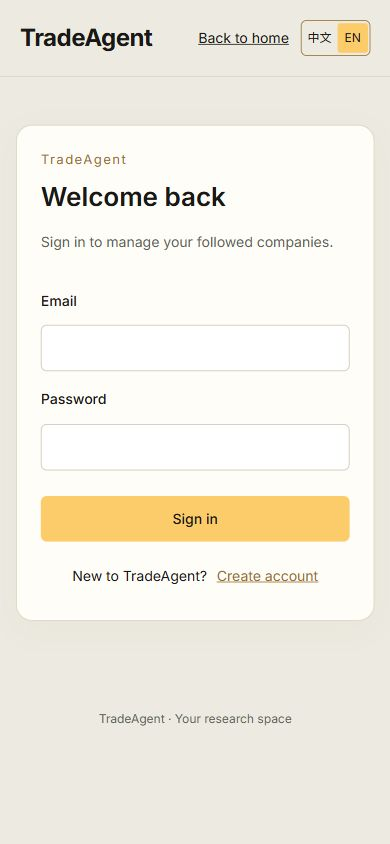
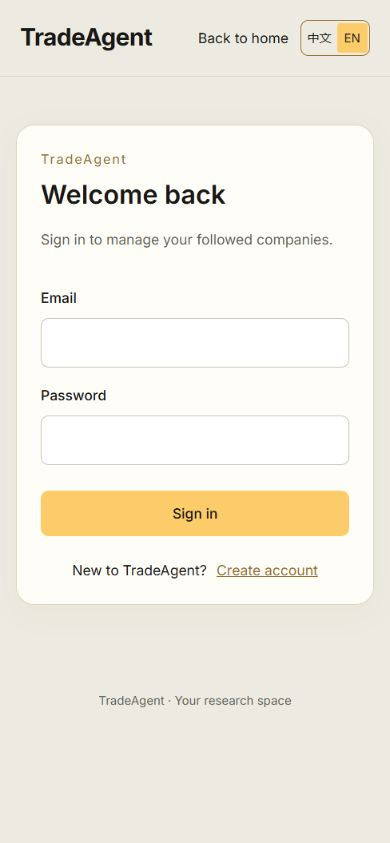
docs: 记录PostgreSQL账户验收与审查闭环

diff --git a/docs/07_前端与部署/LOCAL_ACCOUNT_VALIDATION_20261006.md b/docs/07_前端与部署/LOCAL_ACCOUNT_VALIDATION_20261006.md
@@ -1,0 +1,42 @@
+# 本地账户开发验收（2026-10-06）
+
+后端功能提交：`8b590f7d6120f5dd1fc4429a52baf1b1e9a78972`；前端最终代码：`d50728e01b0ff1c208bbe4bbb5f9f934fe113def`。当前前端在 `D:/桌面/ai-website-cloner-template`，后端在本仓库。
+
+## 自动检查
+
+- 后端 Ruff 全仓通过，Mypy 103 文件通过；完整 Pytest：445 passed、1 skipped，覆盖率89.92%。跳过的是已有、需要外部条件的live gate测试，没有调用付费模型。
+- 前端 `npm.cmd run check`：ESLint、TypeScript、Next生产构建通过。路由包含 `/login`、`/register`、`/app`、`/api/backend/[...path]`。
+- 前端9项Node测试通过：两种本地Origin、非法Origin、内部研究路径拒绝、后端不可用、cookie转发、请求大小、云Origin和原有双语回归。
+- 页面转换脚本在换行归一后重复执行，16个组件文件哈希保持不变；账户入口、账户CTA与中文翻译保留。两个仓库代码diff格式检查通过。
+
+## 实际PostgreSQL与浏览器
+
+本地数据库为PostgreSQL18.6，已有0014迁移升级到0015_local_accounts，保留既有业务数据和持久化卷。未使用SQLite作为运行数据库。
+
+`scripts/qualify-local-accounts.py`经本地Next同源代理与实际API/PostgreSQL验证：注册成功、HttpOnly/SameSite cookie、密码哈希与会话摘要真实存储、刷新续会话、跨账户关注隔离、退出撤销、重新登录、服务端过期拒绝，以及不可信Origin/内部研究路径拒绝。探针在finally中仅清理自己创建的两项专用账户及其关联数据。
+
+浏览器验证了首页登录与注册入口指向本地；注册进入工作台，搜索KLAC、关注后刷新仍保留；错误密码提示、正确登录与退出均正常；中文/英文标题、标签和提示可切换。独立浏览器测试账户无管理员权限，结束时已退出。页面从现有instrument表读取开发测试公司，界面明确说明不是实时行情。
+
+正常桌面及390px移动尺寸均检查；登录页clientWidth/scrollWidth为390/390，工作台为375/375（存在纵向滚动条），无横向溢出。临时尺寸覆盖已还原。截图位于同目录 `account-preview-20261006/`。
+
+## Standards
+
+独立审查初审2项：新增账户样式未遵循Tailwind与移动优先约定；SSR元数据和客户端标题重复维护。已移除新增自定义CSS，改用移动优先utility classes；抽出共享标题表，服务端与语言切换复用。复核还指出按钮覆盖类冲突，已使用既有cn/tailwind-merge处理并再次通过前端构建。
+
+独立复核剩余可行动项0；未发现后端硬性标准违规。账户关注使用永久instrument_id身份。
+
+## Spec
+
+独立审查初审1项：底部CTA与导航仍保留来源站账户/方案文案。已统一为创建TradeAgent账户，将永久免费表述替换为个人关注管理说明，并同步生成脚本和中英文。
+
+独立复核剩余可行动项0；没有发现已定义范围中的遗漏、范围扩张或功能错误。
+
+审查计数：Standards初审2、已关闭2、剩余0；Spec初审1、已关闭1、剩余0。两轴均无剩余最高严重项。
+
+## 配置与开发边界
+
+本地页面：`http://127.0.0.1:3107/login`、`/register`、`/app`，API监听本机8000端口。退出后访问工作台会进入登录页。开发服务保留运行。
+
+云配置准备了统一DATABASE_URL、数据库TLS、HTTPS Origin与Secure cookie校验。没有连接云数据库、上传数据、发布网站或迁移本地数据。具体步骤见[本地与云配置](LOCAL_ACCOUNT_SETUP_20261006.md)。
+
+Google/Apple、邮件验证、找回密码、研究提交与完整报告页面、历史研究归属及公网部署仍需后续开发。旧研究/RAG接口未通过网页代理开放。本次完成账户与个人关注这组前后端闭环，不代表全部原站功能均已接通。
